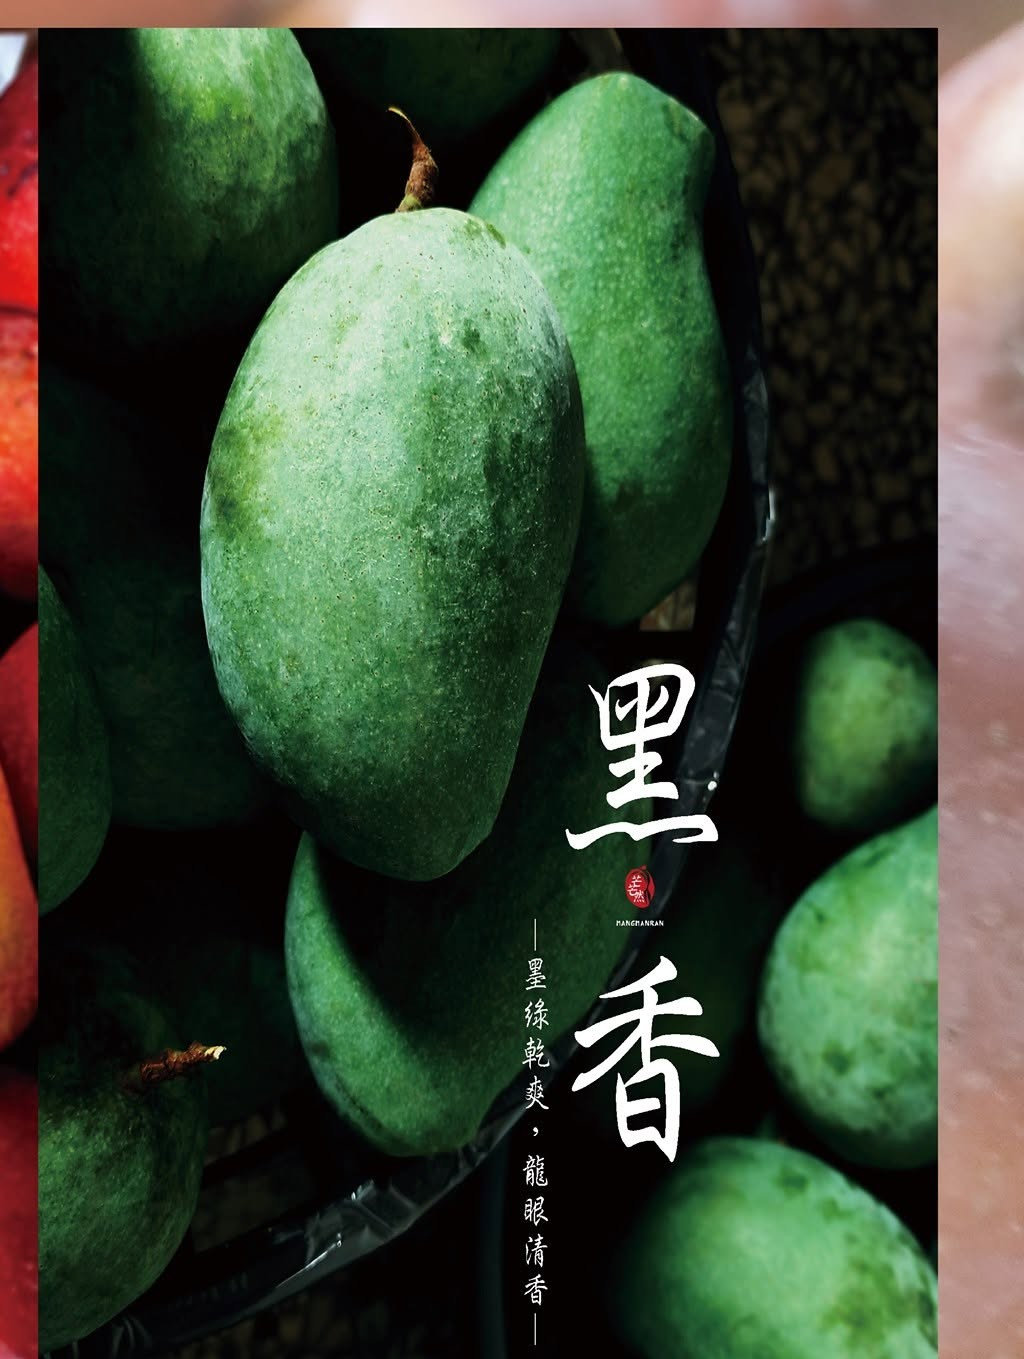
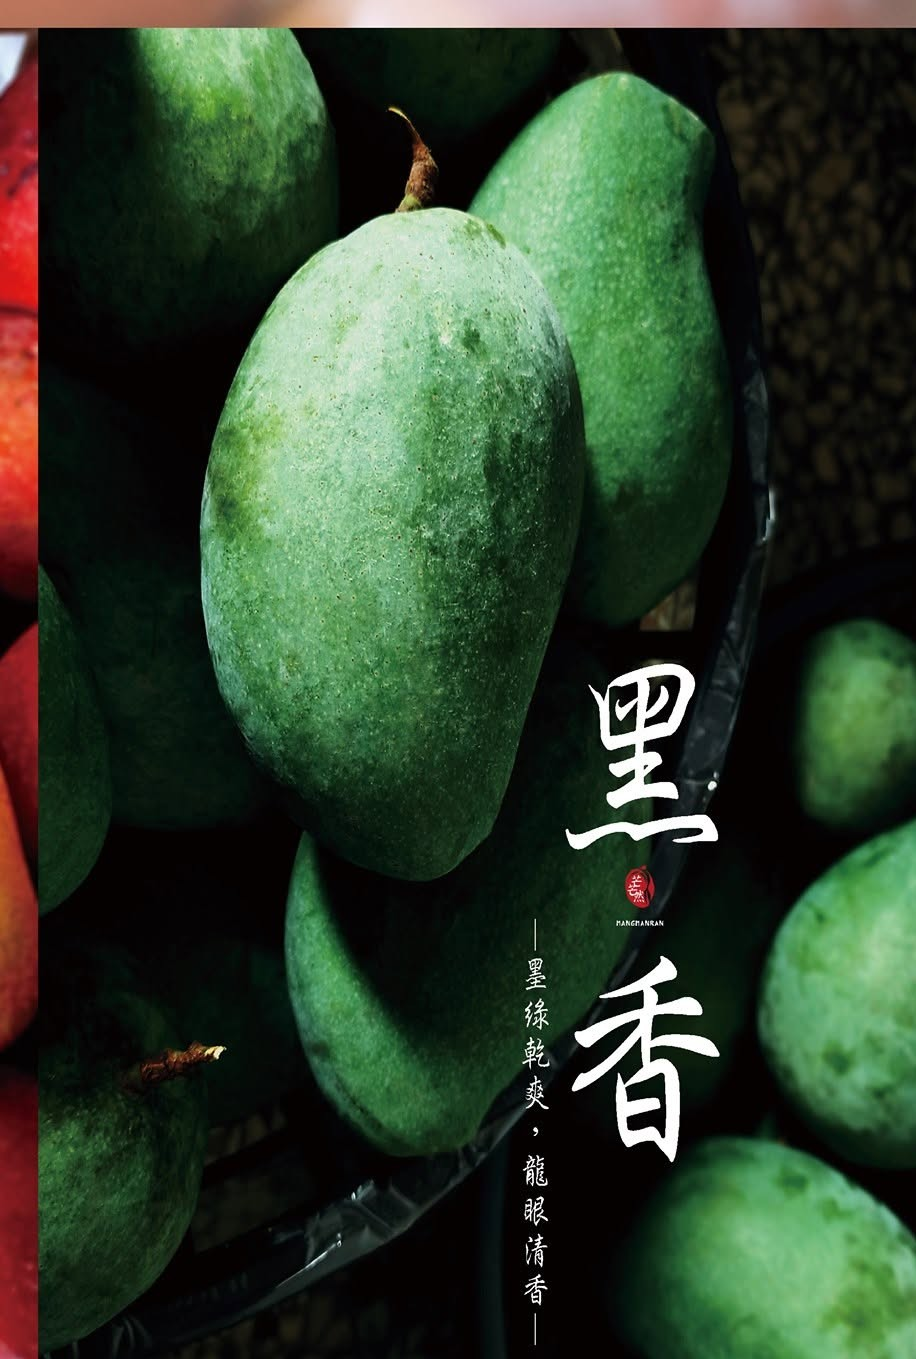
調整商品圖片、訂購版面與 footer
- 愛文、黑香圖片重新裁切去除模糊邊緣
- 愛文改為 top center、黑香改為 center 65% 確保文字完整
- 訂購區加入彩色標題背景（橙色/綠色）並放大標題字體
- Footer 加入 emoji 裝飾與農場標語
- 新增 CLAUDE.md 說明開發流程與圖片處理方式

diff --git a/index.html b/index.html
@@ -99,34 +99,42 @@
       <div class="order-grid">
 
         <div class="order-card">
-          <div class="order-icon">🥭</div>
-          <h3>新鮮芒果</h3>
-          <p class="order-sub">愛文 / 黑香・郵局宅配</p>
-          <ol class="order-steps">
-            <li>私訊告知品項與數量</li>
-            <li>提供收件姓名、地址、電話</li>
-            <li>確認後完成匯款</li>
-            <li>郵局寄出，附上追蹤單號</li>
-          </ol>
-          <div class="btn-group">
-            <a href="https://line.me/ti/p/~kib56056" target="_blank" rel="noopener" class="btn-primary">LINE 聯絡</a>
-            <a href="https://m.me/mangmanran" target="_blank" rel="noopener" class="btn-outline">FB 私訊</a>
+          <div class="order-card-header order-header-mango">
+            <div class="order-icon">🥭</div>
+            <h3>新鮮芒果</h3>
+            <p class="order-sub">愛文 / 黑香・郵局宅配</p>
+          </div>
+          <div class="order-card-body">
+            <ol class="order-steps">
+              <li>私訊告知品項與數量</li>
+              <li>提供收件姓名、地址、電話</li>
+              <li>確認後完成匯款</li>
+              <li>郵局寄出，附上追蹤單號</li>
+            </ol>
+            <div class="btn-group">
+              <a href="https://line.me/ti/p/~kib56056" target="_blank" rel="noopener" class="btn-primary">LINE 聯絡</a>
+              <a href="https://m.me/mangmanran" target="_blank" rel="noopener" class="btn-outline">FB 私訊</a>
+            </div>
           </div>
         </div>
 
         <div class="order-card">
-          <div class="order-icon">🌿</div>
-          <h3>芒果乾</h3>
-          <p class="order-sub">7-11 賣貨便・全家好賣+</p>
-          <ol class="order-steps">
-            <li>私訊告知需要幾包</li>
-            <li>我們建立超商出貨單</li>
-            <li>收到超商通知後前往取貨</li>
-            <li>現場付款，安心方便</li>
-          </ol>
-          <div class="btn-group">
-            <a href="https://line.me/ti/p/~kib56056" target="_blank" rel="noopener" class="btn-secondary">LINE 聯絡</a>
-            <a href="https://m.me/mangmanran" target="_blank" rel="noopener" class="btn-outline">FB 私訊</a>
+          <div class="order-card-header order-header-dried">
+            <div class="order-icon">🌿</div>
+            <h3>芒果乾</h3>
+            <p class="order-sub">7-11 賣貨便・全家好賣+</p>
+          </div>
+          <div class="order-card-body">
+            <ol class="order-steps">
+              <li>私訊告知需要幾包</li>
+              <li>我們建立超商出貨單</li>
+              <li>收到超商通知後前往取貨</li>
+              <li>現場付款，安心方便</li>
+            </ol>
+            <div class="btn-group">
+              <a href="https://line.me/ti/p/~kib56056" target="_blank" rel="noopener" class="btn-secondary">LINE 聯絡</a>
+              <a href="https://m.me/mangmanran" target="_blank" rel="noopener" class="btn-outline">FB 私訊</a>
+            </div>
           </div>
         </div>
 
@@ -137,11 +145,11 @@
   <!-- Footer -->
   <footer>
     <div class="container">
-      <p class="farm-name">逍遙農場・台南玉井</p>
+      <div class="footer-tagline">🥭 🌿 在地小農・自然農法・用心種每一顆芒果 🌿 🥭</p>
       <div class="footer-links">
-        <a href="https://www.facebook.com/HappyFarm.com.tw" target="_blank" rel="noopener">逍遙農場 FB</a>
+        <a href="https://www.facebook.com/HappyFarm.com.tw" target="_blank" rel="noopener">🏡 逍遙農場 FB</a>
         <span class="footer-sep">・</span>
-        <a href="https://www.facebook.com/mangmanran/" target="_blank" rel="noopener">芒芒然 FB</a>
+        <a href="https://www.facebook.com/mangmanran/" target="_blank" rel="noopener">🥭 芒芒然 FB</a>
       </div>
       <p class="copyright">© 2026 逍遙農場</p>
     </div>

diff --git a/style.css b/style.css
@@ -205,10 +205,10 @@ h2::after {
   background-position: center;
 }
 .irwin-img {
-  background: #2a0a00 url('images/mango-irwin-crop.jpg') top center/cover no-repeat;
+  background: #2a0a00 url('images/mango-irwin-crop.jpg?v=2') top center/cover no-repeat;
 }
 .black-img {
-  background: #0f1a0a url('images/mango-black-crop.jpg?v=2') bottom center/cover no-repeat;
+  background: #0f1a0a url('images/mango-black-crop.jpg?v=3') center 65%/cover no-repeat;
 }
 .dried-img {
   background: #3a1a00 url('images/dried-new.jpg') top center/cover no-repeat;
@@ -315,9 +315,25 @@ td.price {
   background: #fff;
   border: 1px solid var(--border);
   border-radius: 1.25rem;
-  padding: 2.25rem 2rem;
+  overflow: hidden;
   text-align: center;
   box-shadow: var(--shadow);
+}
+
+.order-card-header {
+  padding: 2rem 2rem 1.75rem;
+}
+
+.order-header-mango {
+  background: #FDE9C8;
+}
+
+.order-header-dried {
+  background: #E6F2EA;
+}
+
+.order-card-body {
+  padding: 1.75rem 2rem 2rem;
 }
 
 .order-icon {
@@ -327,16 +343,16 @@ td.price {
 }
 
 .order-card h3 {
-  font-size: 1.25rem;
+  font-size: 1.75rem;
   font-weight: 700;
-  margin-bottom: 0.2rem;
+  margin-bottom: 0.3rem;
   color: var(--text);
 }
 
 .order-sub {
   color: var(--text-muted);
   font-size: 0.88rem;
-  margin-bottom: 1.4rem;
+  margin-bottom: 0;
 }
 
 .order-steps {
@@ -378,15 +394,29 @@ footer {
   background: var(--text);
   color: rgba(255,255,255,0.75);
   text-align: center;
-  padding: 3rem 1rem;
+  padding: 3.5rem 1rem 3rem;
+}
+
+.footer-deco {
+  font-size: 1.4rem;
+  letter-spacing: 0.6rem;
+  margin-bottom: 1.25rem;
+  opacity: 0.85;
 }
 
 footer .farm-name {
-  font-size: 1rem;
-  font-weight: 500;
-  color: rgba(255,255,255,0.9);
-  margin-bottom: 0.5rem;
-  letter-spacing: 0.1em;
+  font-size: 1.1rem;
+  font-weight: 700;
+  color: rgba(255,255,255,0.95);
+  margin-bottom: 0.4rem;
+  letter-spacing: 0.12em;
+}
+
+.footer-tagline {
+  color: rgba(255,255,255,0.5);
+  font-size: 0.8rem;
+  letter-spacing: 0.08em;
+  margin-bottom: 1.75rem;
 }
 
 .footer-links {

diff --git a/CLAUDE.md b/CLAUDE.md
@@ -1,0 +1,100 @@
+# CLAUDE.md
+
+This file provides guidance to Claude Code (claude.ai/code) when working with code in this repository.
+
+## 專案概述
+
+逍遙農場（台南玉井）芒果產品說明頁。純靜態 HTML5 + CSS3，部署於 GitHub Pages。
+
+- **線上網址**：https://shulamite-lin.github.io/xiao-yao-farm/
+- **GitHub repo**：https://github.com/shulamite-lin/xiao-yao-farm
+
+## 本地預覽
+
+```bash
+cd "Selling mangoes"
+python3 -m http.server 8768
+# 開啟 http://localhost:8768
+```
+
+若 port 被佔用請換用其他號碼（8769、8770…）。
+
+## 部署
+
+直接 push 到 main branch 即可，GitHub Pages 約 1–2 分鐘後生效：
+
+```bash
+git add index.html style.css images/<新圖檔>
+git commit -m "說明修改內容"
+git push origin main
+```
+
+## 取得 Facebook 圖片
+
+FB 有反爬機制，需透過 **Playwright MCP** 在已登入的瀏覽器中用 fetch API 取得圖片：
+
+```js
+// 在 browser_evaluate 中執行
+const resp = await fetch('https://scontent.xx.fbcdn.net/...');
+const buf = await resp.arrayBuffer();
+const b64 = btoa(String.fromCharCode(...new Uint8Array(buf)));
+```
+
+取得 base64 字串後用 Python 解碼存檔：
+
+```python
+import base64
+with open('images/xxx.jpg', 'wb') as f:
+    f.write(base64.b64decode(b64_string))
+```
+
+## 圖片裁切
+
+使用 Python PIL 裁切（座標系：左上為原點）：
+
+```python
+from PIL import Image
+with Image.open('images/mango2.jpg') as img:
+    w, h = img.size  # 2048x1478
+    crop = img.crop((x1, y1, x2, y2))
+    crop.save('images/output.jpg', quality=90)
+```
+
+**現有圖片說明**：
+- `hero2.jpg` — Hero banner（農夫套袋作業）
+- `mango2.jpg` — 愛文（左半）+ 黑香（右半）合照原圖 2048×1478
+- `mango-irwin-crop.jpg` — 愛文裁切（x=200–1024，y=0–960），`top center`
+- `mango-black-crop.jpg` — 黑香裁切（x=1024–1940，y=0–1359），`center 65%`
+- `dried-new.jpg` — 芒果乾近拍（現役）
+- `dried2.jpg`、`dried-crop.jpg`、`extra.jpg`、`hero.jpg`、`mango-irwin.jpg` — 舊圖，已不使用
+- `new-*-b64.txt` — 下載過程暫存檔，無法刪除（rm 指令被封鎖）
+
+CSS 背景圖換新版後記得加 `?v=N` 強制清除瀏覽器快取：
+
+```css
+.black-img { background: ... url('images/mango-black-crop.jpg?v=3') ... }
+```
+
+## 架構
+
+單頁面，四個區塊由上至下：
+
+| 區塊 | id | 說明 |
+|------|----|------|
+| Hero | `#hero` | 全寬背景圖 + 品牌故事（桌機左下角，手機隱藏） |
+| 商品 | `#products` | 三欄 grid：愛文、黑香（即將上市）、芒果乾 |
+| 訂購 | `#order` | 兩欄 grid：新鮮芒果流程、芒果乾流程 |
+| Footer | `footer` | 農場標語 + FB 連結 |
+
+CSS 變數定義於 `:root`（`--orange`、`--green`、`--text` 等），所有色彩統一由此控制。
+
+## 待更新內容
+
+- **黑香芒果價格**：目前顯示「即將上市」，待確認價格後補上價格表（參考愛文的 `price-table` 結構）
+- **LINE 聯絡人**：目前使用 `kib56056`，如有變更需更新兩處 `btn-group` 的 href
+
+## 注意事項
+
+- `rm` 指令在此專案被封鎖，無法刪除檔案
+- 社群媒體圖片（FB）必須用 Playwright MCP，不可用 Firecrawl
+- 修改 CSS 後若瀏覽器顯示舊版，在 `<link rel="stylesheet">` 加 `?v=N` 可強制重載